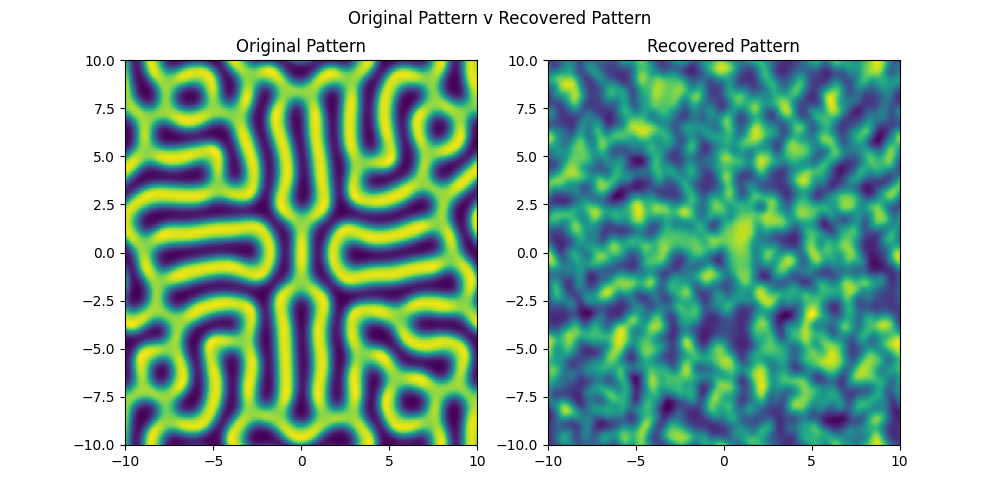
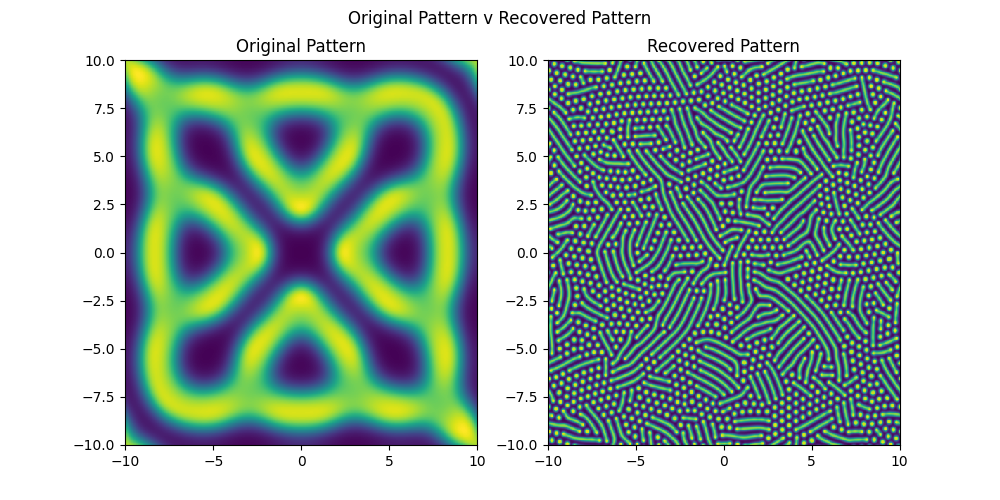
Generated larger pattern! Woohoo! You can clearly see in the plots that the parameter space can be discerned. There is some degree of noisiness, made evident by an averaging over a 15x15 area of cells, and also by a Gaussian blur (and both at once), which can seen in the relevant plots. Currently ge

diff --git a/varied-gs.py b/varied-gs.py
@@ -48,27 +48,27 @@ Second go with slightly different scales, making the smaller one even smaller so
 Third attempt, this time make the starting model even larger.
 """
 
-gs = GrayScott(diffusion_extra=40, 
-			   dt=1.0, 
-			   bottom_left=(-10,-10), 
-			   top_right=(10,10))
+# gs = GrayScott(diffusion_extra=40, 
+# 			   dt=1.0, 
+# 			   bottom_left=(-10,-10), 
+# 			   top_right=(10,10))
 
-gs.set_activator(np.ones((gs.x_count, gs.y_count)))
-gs.add_inhibitor(r=0.4, amount=1.0)
+# gs.set_activator(np.ones((gs.x_count, gs.y_count)))
+# gs.add_inhibitor(r=0.4, amount=1.0)
 
-Model.to_file(gs, 'data/gs_large_scale3', frames=1500, steps_per_frame=200)
+# Model.to_file(gs, 'data/gs_large_scale3', frames=1500, steps_per_frame=200)
 
-variedgs = VariedGS(source='data/gs_large_scale3', 
-					activator_diffusion=0.5, 
-					inhibitor_diffusion=0.25, 
-					dt=1.0, 
-					bottom_left=(-10,-10), 
-					top_right=(10,10))
+# variedgs = VariedGS(source='data/gs_large_scale3', 
+# 					activator_diffusion=0.5, 
+# 					inhibitor_diffusion=0.25, 
+# 					dt=1.0, 
+# 					bottom_left=(-10,-10), 
+# 					top_right=(10,10))
 
-variedgs.set_activator(np.ones(variedgs.x.shape))
-variedgs.add_inhibitor(r=0.5, amount=1.0)
+# variedgs.set_activator(np.ones(variedgs.x.shape))
+# variedgs.add_inhibitor(r=0.5, amount=1.0)
 
-Model.to_file(variedgs, 'data/variedgs-nested3', frames=2600, steps_per_frame=100)
+# Model.to_file(variedgs, 'data/variedgs-nested3', frames=2600, steps_per_frame=100)
 
 # Ran this line in parallel to above.
 # Model.create_animation('variedgs/nested3', 'data/variedgs-nested3', 'Inhibitor', frame_count=2600, frame_skip=100)
@@ -83,8 +83,9 @@ nested_pattern, _, _ = Model.get_last("data/variedgs-nested3")
 # average over an area of n*n cells
 n = 15
 stencil = np.ones((n,n))/(n*n)
-recovered_pattern = ndimage.gaussian_filter(nested_pattern['Inhibitor'], 6, mode='wrap')
-recovered_pattern = ndimage.convolve(recovered_pattern, stencil, mode='wrap')
+recovered_pattern = nested_pattern['Inhibitor']
+# recovered_pattern = ndimage.convolve(recovered_pattern, stencil, mode='wrap')
+# recovered_pattern = ndimage.gaussian_filter(recovered_pattern, 5.5, mode='wrap')
 
 fig, ax = plt.subplots(nrows=1, ncols=2, figsize=(10, 5))
 

diff --git a/simulator/models/variedgs.py b/simulator/models/variedgs.py
@@ -22,7 +22,7 @@ class VariedGS(GrayScott):
 		self.right_point = right
 		
 		# Model both of them based on the final state of a pre-computed model.
-		data = Model.get_last(source)
+		data, _, _ = Model.get_last(source)
 		if (data['Inhibitor'].shape != self.x.shape):
 			raise ValueError("Given model is of incorrect shape.")
 		self.feed = data['Inhibitor']
